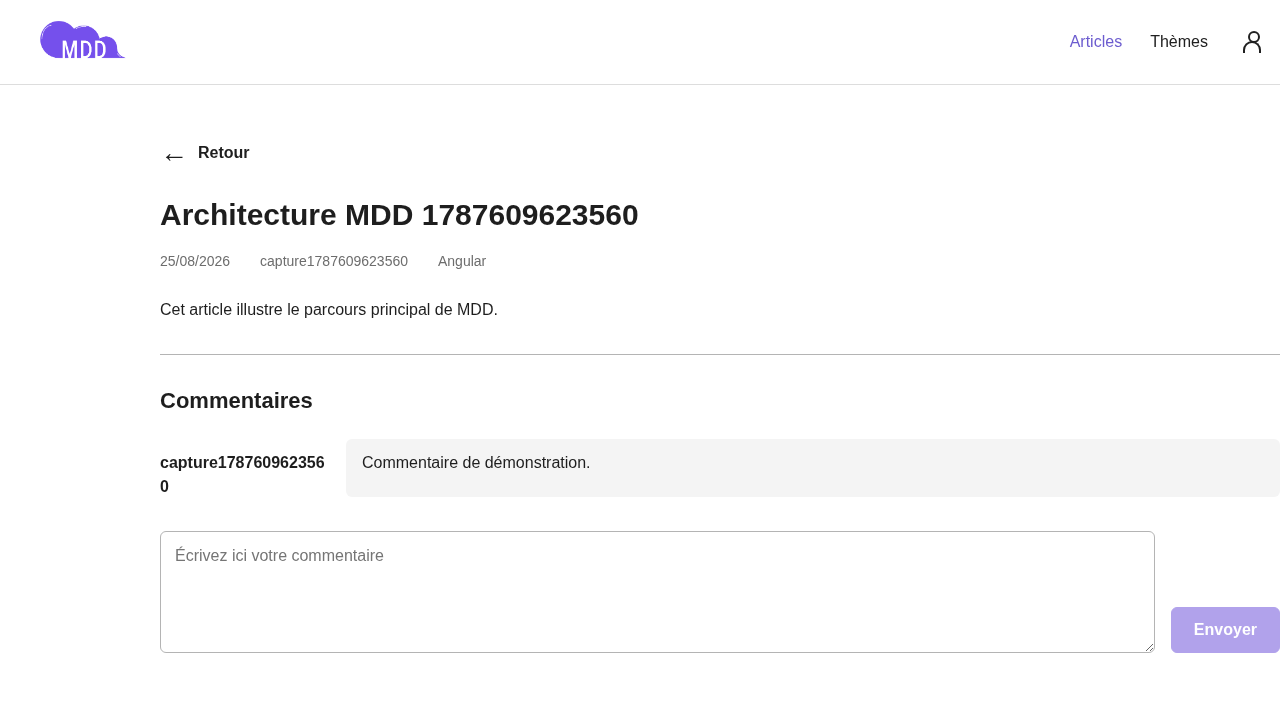
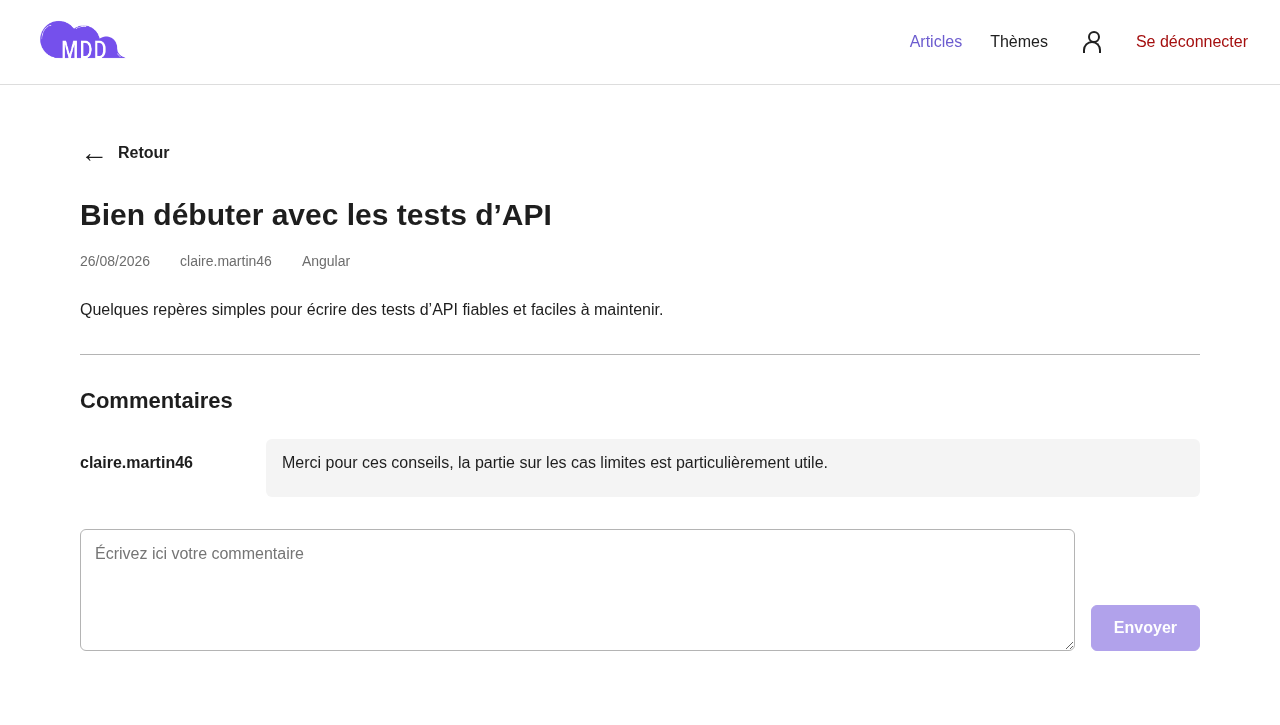
docs(ui): regenerate screenshots with human demo content

diff --git a/front/cypress/e2e/mdd-mvp.cy.ts b/front/cypress/e2e/mdd-mvp.cy.ts
@@ -1,12 +1,12 @@
 describe('MDD MVP journey', () => {
   it('registers, subscribes, publishes, comments and logs out', () => {
     const suffix = Date.now();
-    const username = `e2e${suffix}`;
+    const username = `claire.dev${suffix}`;
     const email = `${username}@example.com`;
     const password = 'Valid1!password';
-    const title = `Article E2E ${suffix}`;
-    const content = 'Contenu cree par le scenario Cypress.';
-    const comment = 'Commentaire cree par le scenario Cypress.';
+    const title = 'Bien débuter avec les tests d’API';
+    const content = 'Quelques repères simples pour écrire des tests d’API fiables et faciles à maintenir.';
+    const comment = 'Merci pour ces conseils, la partie sur les cas limites est particulièrement utile.';
 
     cy.intercept('POST', '**/api/auth/register').as('register');
     cy.intercept('GET', '**/api/topics').as('topics');
@@ -15,6 +15,10 @@ describe('MDD MVP journey', () => {
     cy.intercept('POST', '**/api/articles/*/comments').as('createComment');
 
     cy.visit('/auth');
+    cy.viewport(1440, 900);
+    cy.screenshot('auth-desktop');
+    cy.viewport(390, 844);
+    cy.screenshot('auth-mobile');
     cy.contains("S'inscrire").click();
     cy.get('#register-email').type(email);
     cy.get('#register-username').type(username);
@@ -33,6 +37,14 @@ describe('MDD MVP journey', () => {
     cy.get('.topic-card').first().should('contain.text', 'Déjà abonné');
 
     cy.contains('Articles').click();
+    cy.viewport(1280, 720);
+    cy.screenshot('feed-desktop');
+    cy.viewport(390, 1249);
+    cy.contains('Thèmes').click();
+    cy.wait('@topics').its('response.statusCode').should('eq', 200);
+    cy.get('.topic-card').first().should('contain.text', 'Déjà abonné');
+    cy.screenshot('topics-mobile');
+    cy.contains('Articles').click();
     cy.contains('Créer un article').click();
     cy.get('select[formControlName="topicId"] option')
       .eq(1)
@@ -50,8 +62,12 @@ describe('MDD MVP journey', () => {
     cy.get('form').contains('Envoyer').should('not.be.disabled').click();
     cy.wait('@createComment').its('response.statusCode').should('eq', 201);
     cy.contains(comment).should('be.visible');
+    cy.viewport(1280, 725);
+    cy.screenshot('article-detail-desktop');
 
     cy.get('a[aria-label="Profil utilisateur"]').click();
+    cy.viewport(390, 795);
+    cy.screenshot('profile-mobile');
     cy.get('input[formControlName="username"]').clear().type(`${username}updated`);
     cy.contains('Sauvegarder').click();
     cy.contains('Profil mis à jour.').should('be.visible');
